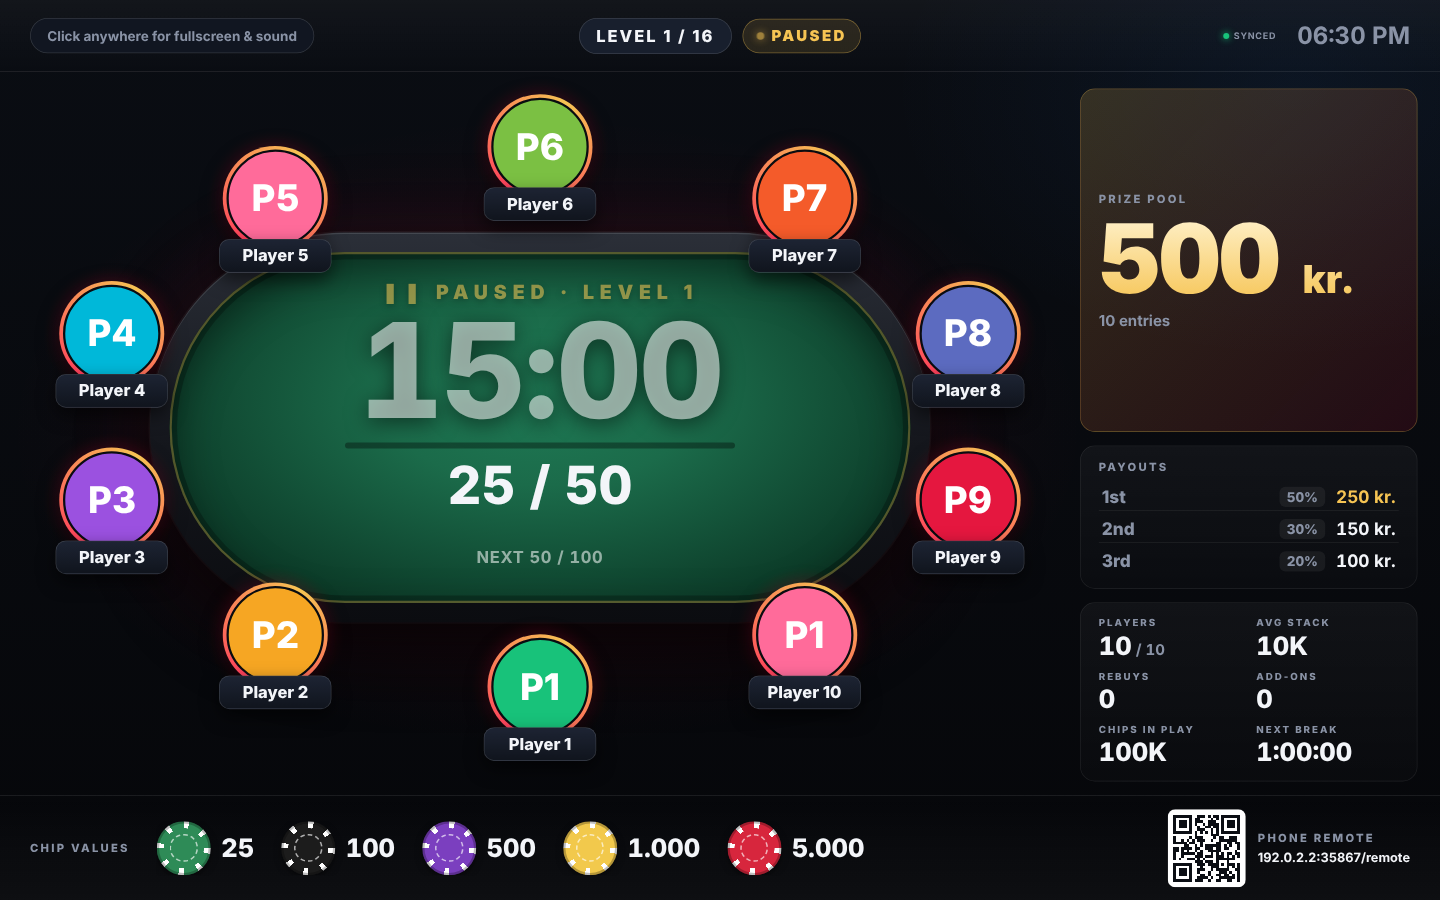
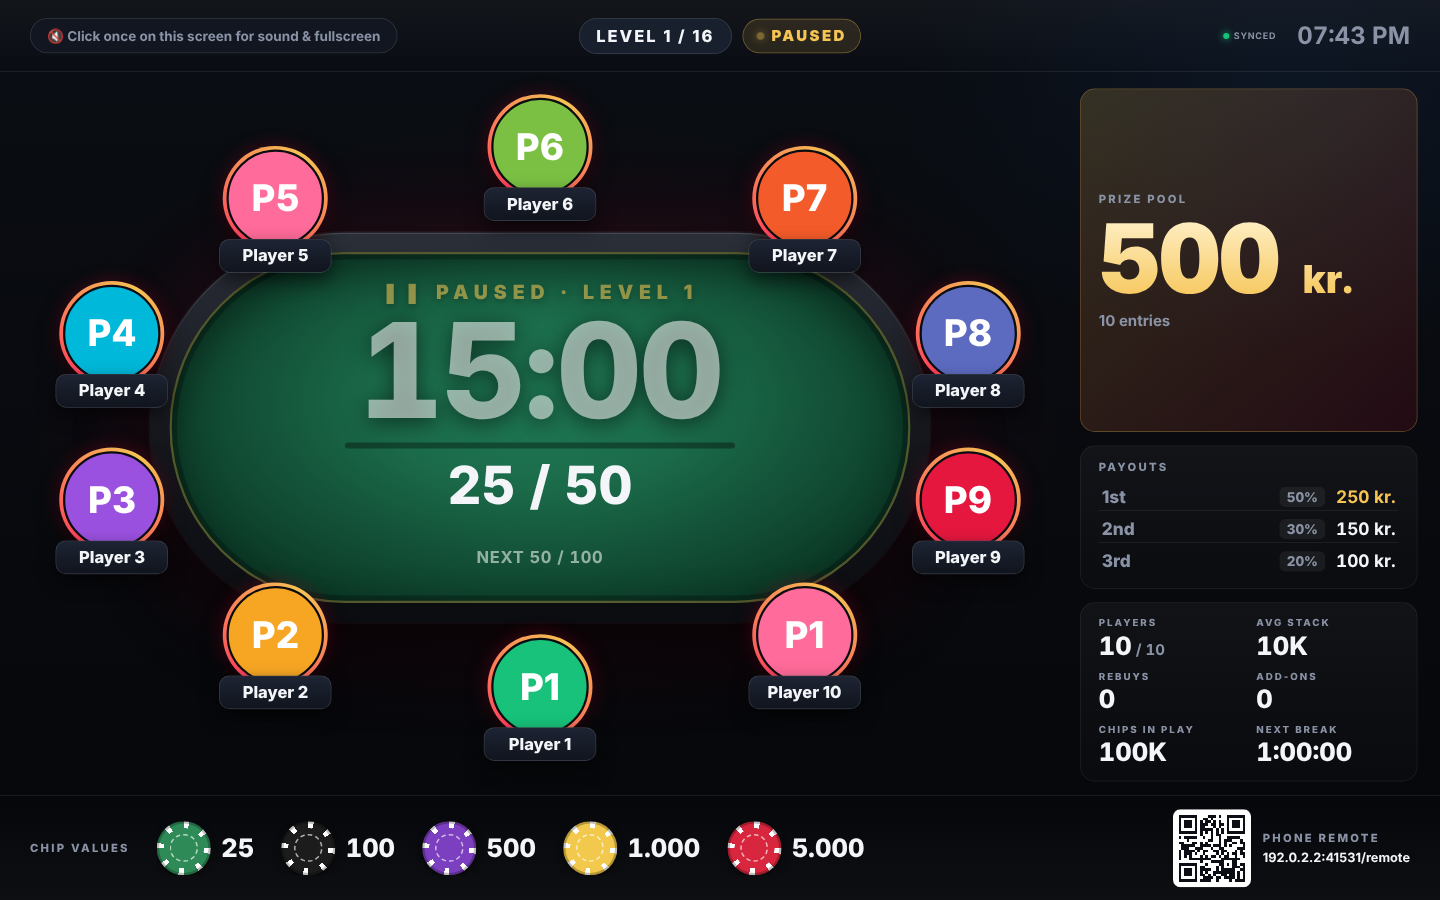
Santa voice: never mix in the computer voice
- Only the TV page that was clicked speaks; with several TV pages/tabs open,
  the last one clicked takes over (others stay silent)
- Santa clips play through one Web Audio context unlocked by that click, so
  browsers can't block later clips (the cause of computer-voice fallbacks)
- A single failed clip is skipped instead of read by the computer voice;
  only after 3 failures in a row does it switch to the built-in voice for good
- Settings test button no longer steals the voice from the TV
- TV keeps the 'click once for sound' hint until clicked
- Tests for all of the above

Claude-Session: https://claude.ai/code/session_01N854TtBQqxUNX4Xdk88yh2

Changed region(s): [[0.8125, 0.9022, 0.9688, 0.9956], [0.0312, 0.0311, 0.2812, 0.0622], [0.9062, 0.0311, 0.9375, 0.0622]]

diff --git a/public/js/announcer.js b/public/js/announcer.js
@@ -91,14 +91,46 @@
   let queued = 0;
   let realVoice = false; // ElevenLabs Santa is set up on the server
 
-  /* ---------- real Santa voice: play server-made clips in order ---------- */
+  /* ---------- who may speak ----------
+   * Only a page that has been clicked (browsers block sound before that) speaks, and if several
+   * TV pages are open (a second tab, a MacBook window + the TV), only the one clicked last speaks.
+   */
+  let enabled = false;
+  let speaker = true;
+  const myId = Math.random().toString(36).slice(2);
+  let channel = null;
+  try {
+    channel = new BroadcastChannel('poker-announcer');
+    channel.onmessage = (m) => { if (m.data && m.data.claim && m.data.claim !== myId) speaker = false; };
+  } catch { /* old browser: just speak */ }
+
+  /* ---------- real Santa voice: play server-made clips in order (Web Audio) ----------
+   * One AudioContext, unlocked by the click, plays every clip — no per-clip autoplay blocks.
+   * Never mixes voices: a clip that fails is skipped; only if ElevenLabs keeps failing do we
+   * switch to the built-in voice for the rest of the night.
+   */
+  let ctx = null;
+  let failsInARow = 0;
+  let realVoiceBroken = false;
   const clipQueue = [];
   let clipPlaying = false;
+  function audioCtx() {
+    if (!ctx) ctx = new (window.AudioContext || window.webkitAudioContext)();
+    return ctx;
+  }
+  function fetchClip(text) {
+    const ctl = new AbortController();
+    const timer = setTimeout(() => ctl.abort(), 20000);
+    return fetch('/api/tts?text=' + encodeURIComponent(text), { signal: ctl.signal })
+      .then((r) => { if (!r.ok) throw new Error('clip ' + r.status); return r.arrayBuffer(); })
+      .then((buf) => new Promise((res, rej) => audioCtx().decodeAudioData(buf, res, rej)))
+      .finally(() => clearTimeout(timer));
+  }
   function playClip(text, lang) {
     if (clipQueue.length >= 4) clipQueue.splice(0, clipQueue.length - 3); // don't fall far behind
-    const audio = new Audio('/api/tts?text=' + encodeURIComponent(text));
-    audio.preload = 'auto'; // starts generating/downloading right away
-    clipQueue.push({ audio, text, lang });
+    const item = { text, lang, buffer: fetchClip(text) }; // starts generating/downloading right away
+    item.buffer.catch(() => {}); // handled when its turn comes
+    clipQueue.push(item);
     nextClip();
   }
   function nextClip() {
@@ -106,22 +138,26 @@
     const item = clipQueue.shift();
     if (!item) return;
     clipPlaying = true;
-    let done = false;
-    const finish = (fallback) => {
-      if (done) return;
-      done = true;
-      clearTimeout(timer);
-      clipPlaying = false;
-      if (fallback) browserSay(item.text, { voice: 'santa', lang: item.lang });
-      nextClip();
-    };
-    // if the clip can't start within 12 s (no internet, ElevenLabs down…) use the built-in voice
-    const timer = setTimeout(() => { item.audio.pause(); finish(true); }, 12000);
-    item.audio.onended = () => finish(false);
-    item.audio.onerror = () => finish(true);
-    item.audio.onplaying = () => clearTimeout(timer);
-    if (beforeSpeak) beforeSpeak();
-    setTimeout(() => item.audio.play().catch(() => finish(true)), beforeSpeak ? 450 : 0);
+    const done = () => { clipPlaying = false; nextClip(); };
+    item.buffer.then((buffer) => {
+      failsInARow = 0;
+      if (beforeSpeak) beforeSpeak();
+      const c = audioCtx();
+      if (c.state === 'suspended') c.resume();
+      const src = c.createBufferSource();
+      src.buffer = buffer;
+      src.connect(c.destination);
+      src.onended = done;
+      src.start(c.currentTime + (beforeSpeak ? 0.45 : 0));
+      document.dispatchEvent(new CustomEvent('announcer:clip', { detail: item.text }));
+    }).catch(() => {
+      failsInARow++;
+      if (failsInARow >= 3) {
+        realVoiceBroken = true; // ElevenLabs is clearly unavailable tonight: one consistent voice from now on
+        browserSay(item.text, { voice: 'santa', lang: item.lang });
+      }
+      done();
+    });
   }
 
   function synth() { return window.speechSynthesis || null; }
@@ -146,7 +182,7 @@
     const style = opts.voice || cfg.voice;
     const lang = opts.lang || cfg.lang;
     if (style === 'off' || !text) return;
-    if (style === 'santa' && realVoice && !opts.browser) return playClip(text, lang);
+    if (style === 'santa' && realVoice && !realVoiceBroken && !opts.browser) return playClip(text, lang);
     browserSay(text, { voice: style, lang });
   }
 
@@ -173,7 +209,7 @@
 
   /** Speak for a game event (from the TV display). */
   function handle(e, state) {
-    if (!state || cfg.voice === 'off') return;
+    if (!state || cfg.voice === 'off' || !enabled || !speaker) return;
     const L = LINES[cfg.lang] || LINES.en;
     const st = cfg.voice === 'santa' ? 'santa' : 'normal';
     const cur = state.config.currency;
@@ -236,8 +272,18 @@
     onBeforeSpeak(fn) { beforeSpeak = fn; },
     handle,
     say,
-    test(c, opts = {}) { const lang = (c && c.lang) || cfg.lang; const v = (c && c.voice) || cfg.voice; say((LINES[lang] || LINES.en).test[v === 'santa' ? 'santa' : 'normal'], { voice: v === 'off' ? 'normal' : v, lang, browser: opts.browser }); },
+    test(c, opts = {}) { this.unlock({ claim: false }); const lang = (c && c.lang) || cfg.lang; const v = (c && c.voice) || cfg.voice; say((LINES[lang] || LINES.en).test[v === 'santa' ? 'santa' : 'normal'], { voice: v === 'off' ? 'normal' : v, lang, browser: opts.browser }); },
     get realVoice() { return realVoice; },
+    get speaking() { return enabled && speaker; },
+    /** Call from a click: allows sound on this page and makes it the one that speaks. */
+    unlock({ claim = true } = {}) {
+      enabled = true;
+      try { audioCtx().resume(); } catch { /* no audio */ }
+      if (claim) {
+        speaker = true;
+        if (channel) channel.postMessage({ claim: myId });
+      }
+    },
     lines: LINES,
   };
   // voices load asynchronously in Chrome

diff --git a/test/e2e.test.js b/test/e2e.test.js
@@ -718,6 +718,7 @@ test('Santa announcer and bubble / in-the-money / heads-up moments', { skip: !ch
     display.on('pageerror', (e) => errors.push(e.message));
     await display.goto(base + '/display');
     await display.waitForSelector('.seat');
+    await display.click('body'); // sound on (browsers require one click)
     await new Promise((res) => (c.connected ? res() : c.on('connect', res)));
     const act = (a) => c.emitWithAck('action', a);
     const said = () => display.evaluate(() => window.__said.map((x) => x.text).join(' | '));
@@ -953,8 +954,7 @@ test('real Santa voice via ElevenLabs (mock API): connect, pick voice, cache, pl
   const tts = () => calls.filter((x) => x.kind === 'tts');
   const spy = () => {
     window.__played = []; window.__said = [];
-    const orig = HTMLMediaElement.prototype.play;
-    HTMLMediaElement.prototype.play = function () { window.__played.push(decodeURIComponent(this.src)); return orig.call(this); };
+    document.addEventListener('announcer:clip', (e) => window.__played.push(e.detail));
     Object.defineProperty(window, 'speechSynthesis', { configurable: true, value: { speaking: false, speak(u) { window.__said.push(u.text); setTimeout(() => u.onend && u.onend(), 0); }, cancel() {}, getVoices() { return []; } } });
   };
   try {
@@ -1020,7 +1020,8 @@ test('real Santa voice via ElevenLabs (mock API): connect, pick voice, cache, pl
       assert.equal(tts().length - before, made, 'nothing paid for twice');
     });
 
-    const display = await browser.newPage({ viewport: { width: 1920, height: 1080 } });
+    const tvCtx = await browser.newContext({ viewport: { width: 1920, height: 1080 } });
+    const display = await tvCtx.newPage();
     await display.addInitScript(spy);
     display.on('pageerror', (e) => errors.push(e.message));
     await display.goto(base + '/display');
@@ -1039,18 +1040,57 @@ test('real Santa voice via ElevenLabs (mock API): connect, pick voice, cache, pl
       assert.deepEqual(await display.evaluate(() => window.__said), [], 'no robot voice used');
     });
 
-    await t.test('if ElevenLabs fails, the built-in voice says it instead', async () => {
+    await t.test('a second TV page stays quiet; only the clicked one speaks', async () => {
+      const tv2 = await display.context().newPage(); // another tab in the same browser
+      await tv2.addInitScript(spy);
+      await tv2.goto(base + '/display');
+      await tv2.waitForSelector('.seat');
+      await c.emitWithAck('action', { type: 'player.addon', playerId: ids.Tony });
+      await display.waitForFunction(() => window.__played.some((s) => /Tony takes the add-on/.test(s)), null, { timeout: 15000 });
+      await tv2.waitForTimeout(800);
+      assert.deepEqual(await tv2.evaluate(() => [window.__played, window.__said]), [[], []], 'unclicked TV page is silent');
+      // clicking the second page hands the voice over to it
+      await tv2.click('body');
+      await c.emitWithAck('action', { type: 'undo' });
+      await c.emitWithAck('action', { type: 'player.addon', playerId: ids.Tony });
+      await tv2.waitForFunction(() => window.__played.some((s) => /Tony takes the add-on/.test(s)), null, { timeout: 15000 });
+      const n = await display.evaluate(() => window.__played.filter((s) => /Tony takes the add-on/.test(s)).length);
+      assert.equal(n, 1, 'first page no longer speaks');
+      await tv2.close();
+      await display.click('body'); // hand the voice back
+    });
+
+    await t.test('one failed clip is skipped — never the computer voice mixed in', async () => {
       ttsFails = true;
       await c.emitWithAck('action', { type: 'player.eliminate', playerId: ids.Jake });
-      await display.waitForFunction(() => window.__said.some((s) => /Jake/.test(s)), null, { timeout: 20000 });
+      await display.waitForTimeout(2500);
+      assert.deepEqual(await display.evaluate(() => window.__said), [], 'no robot voice for a single failure');
       ttsFails = false;
     });
 
+    await t.test('if ElevenLabs keeps failing, switch to the built-in voice for good (not mixed)', async () => {
+      ttsFails = true;
+      // lines made live (not prepared) — bust-outs — so they really fail
+      for (let i = 0; i < 3; i++) {
+        await c.emitWithAck('action', { type: 'undo' });
+        await c.emitWithAck('action', { type: 'player.eliminate', playerId: ids.Jake });
+      }
+      await display.waitForFunction(() => window.__said.length > 0, null, { timeout: 30000 });
+      ttsFails = false;
+      const clips = await display.evaluate(() => window.__played.length);
+      await c.emitWithAck('action', { type: 'clock.next' });
+      await display.waitForFunction((n) => window.__said.length >= 2, clips, { timeout: 10000 });
+      assert.equal(await display.evaluate(() => window.__played.length), clips, 'stays on one voice for the rest of the night');
+    });
+
     await t.test('Danish lines go to the same Santa voice', async () => {
+      await display.reload();
+      await display.waitForSelector('.seat');
+      await display.click('body');
       const s0 = await (await fetch(base + '/api/state')).json();
       await fetch(base + '/api/setup', { method: 'POST', headers: { 'Content-Type': 'application/json' }, body: JSON.stringify({ config: { ...s0.config, announcer: { voice: 'santa', lang: 'da' } }, players: s0.players }) });
       await new Promise((res) => setTimeout(res, 300));
-      await c.emitWithAck('action', { type: 'clock.next' });
+      await c.emitWithAck('action', { type: 'clock.goto', levelIndex: 1 });
       await display.waitForFunction(() => window.__played.some((s) => /Niveau 2! Blinds er nu 50 og 100/.test(s)), null, { timeout: 15000 });
     });
 

diff --git a/public/js/display.js b/public/js/display.js
@@ -72,12 +72,12 @@
 
   document.addEventListener('click', () => {
     enableAudio();
+    PT.announcer.unlock(); // this TV page is now the one that speaks
     $('hint').classList.add('gone');
     if (!document.fullscreenElement && document.documentElement.requestFullscreen) {
       document.documentElement.requestFullscreen().catch(() => {});
     }
   });
-  setTimeout(() => $('hint').classList.add('gone'), 12000);
 
   // hide the mouse cursor when idle (it's a TV)
   let cursorTimer;

diff --git a/public/display.html b/public/display.html
@@ -86,7 +86,7 @@
     <div class="spotlight" id="spotlight"></div>
     <div class="winner hidden" id="winner"></div>
     <div class="final hidden" id="final"></div>
-    <div class="hint" id="hint">Click anywhere for fullscreen &amp; sound</div>
+    <div class="hint" id="hint">🔇 Click once on this screen for sound &amp; fullscreen</div>
   </div>
 
   <script src="/socket.io/socket.io.js"></script>
